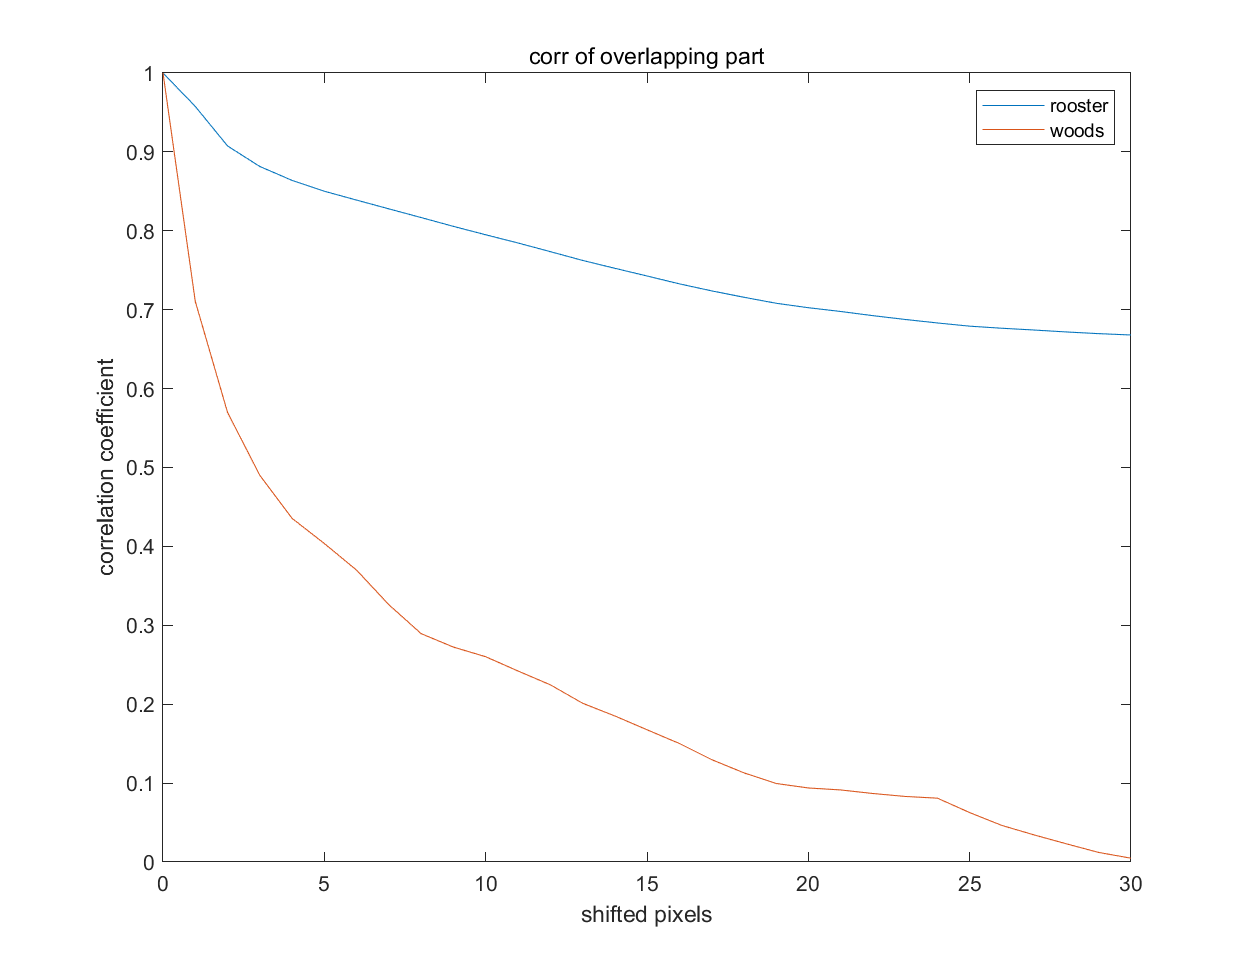
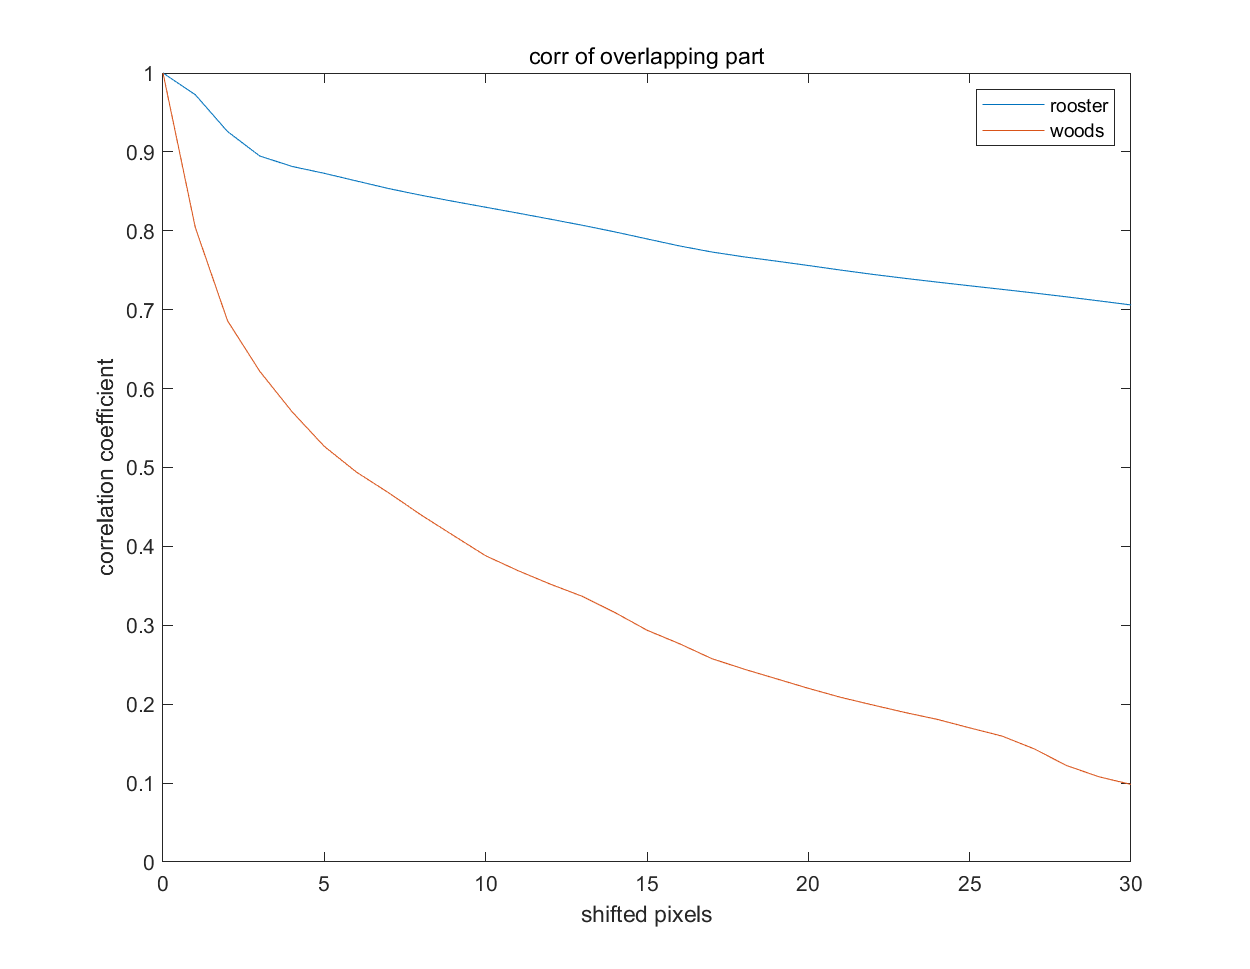
shift towards right

diff --git a/lab1/part_corr.m b/lab1/part_corr.m
@@ -9,15 +9,15 @@ function part_corr = part_corr(image, pixel_start, pixel_shifted, size)
   % pixel_start = top lift piexl of the first image part
   % pixel_shifted = how many piexls shifted
   % size = size of image part
-
-    if nargin < 4
-       size = 70;
-    end        
-    for i = 1:1:length(pixel_shifted)
-        p1 = image(pixel_start(1):pixel_start(1)+size,...
-            pixel_start(2):pixel_start(2)+size);
-        p2 = image(pixel_start(1)+pixel_shifted(i):pixel_start(1)...
-            +size+pixel_shifted(i),pixel_start(2)+pixel_shifted(i):...
-            pixel_start(2)+size+pixel_shifted(i));
-        part_corr(i) = corr2(p1,p2);
-    end
+    
+  if nargin < 5
+     size = 70;
+  end        
+  for i = 1:1:length(pixel_shifted)
+      p1 = image(pixel_start(1):pixel_start(1)+size,...
+          pixel_start(2):pixel_start(2)+size);
+      p2 = image(pixel_start(1)+pixel_shifted(i):pixel_start(1)...
+          +size+pixel_shifted(i),pixel_start(2)+pixel_shifted(i):...
+          pixel_start(2)+size+pixel_shifted(i));
+      part_corr(i) = corr2(p1,p2);
+  end

diff --git a/lab1/q621.m b/lab1/q621.m
@@ -1,0 +1,30 @@
+clear;read_pic;
+
+g1 = fspecial('gaussian',36,2);
+g2 = fspecial('gaussian',36,6);
+gm1 = g1-g2;
+g3 = fspecial('gaussian',36,0.5);
+g4 = fspecial('gaussian',36,4);
+gm2 = g3-g4;
+
+x = 0:1:30;
+rooster1 = conv2(rooster,gm1,'same');
+rooster2 = conv2(rooster,gm2,'same');
+woods1 = conv2(woods,gm1,'same');
+woods2 = conv2(woods,gm2,'same');
+r1 = part_corr_x(rooster1,[1,1],x,size(rooster1,1)-31);
+r2 = part_corr_x(rooster2,[1,1],x,size(rooster2,1)-31);
+w1 = part_corr_x(woods1,[1,1],x,size(woods1,1)-31);
+w2 = part_corr_x(woods2,[1,1],x,size(woods2,1)-31);
+
+figure(1),set(gcf,'position',[50,50,800,310]);
+subplot(121),plot(x,r1,x,w1);   
+title('corr of overlapping part after conv by DoG1');
+xlabel('shifted pixels'),ylabel('correlation coefficient');
+legend('rooster','woods')
+subplot(122),plot(x,r2,x,w2);   
+title('corr of overlapping part after conv by DoG2');
+xlabel('shifted pixels'),ylabel('correlation coefficient');
+legend('rooster','woods')
+
+print -dpng q621.png

diff --git a/lab1/part_corr_x.m b/lab1/part_corr_x.m
@@ -1,0 +1,23 @@
+function part_corr_x = part_corr_x(image, pixel_start, pixel_shifted, sz)
+  %corr_value = part_corr(image, pixel_start, size, piexl_shifted)
+  %
+  % This fuction calculates the correlation coefficients between 
+  % overlapping parts of the same image shifted by different values.
+  % 
+  % Paraments:
+  % image = gray original image
+  % pixel_start = top lift piexl of the first image part
+  % pixel_shifted = how many piexls shifted
+  % size = size of image part
+
+    if nargin < 4
+       sz = 70;
+    end        
+    column = size(image,2);
+    for i = 1:1:length(pixel_shifted)
+        p1 = image(pixel_start(1):pixel_start(1)+sz,...
+             pixel_start(2):column);
+        p2 = image(pixel_start(1)+pixel_shifted(i):pixel_start(1)...
+            +sz+pixel_shifted(i),pixel_start(2):column);
+        part_corr_x(i) = corr2(p1,p2);
+    end

diff --git a/lab1/q611.m b/lab1/q611.m
@@ -3,8 +3,10 @@ clear;read_pic;
 x = 0:1:30;
 % size is the largest one given pixel_start and pixel_shifted
 % this method make sure the two parts are as large as possible
-r = part_corr(rooster,[1,1],x,min(size(rooster))-31);
-w = part_corr(woods,[1,1],x,min(size(woods))-31);
+rls = size(rooster,1)-31;
+wls = size(woods,1)-31;
+r = part_corr_x(rooster,[1,1],x,rls);
+w = part_corr_x(woods,[1,1],x,wls);
 figure(1),set(gcf,'position',[50,50,800,620]);
 plot(x,r,x,w);   
 title('corr of overlapping part'),xlabel('shifted pixels'),ylabel('correlation coefficient');

diff --git a/lab1/q711.m b/lab1/q711.m
@@ -1,0 +1,5 @@
+clear;
+rooster = imread('..\data\rooster.jpg');
+rooster = im2double(rooster);
+g1 = fspecial('gaussian',18,2);
+g2 = fspecial('gaussian',18,3);
